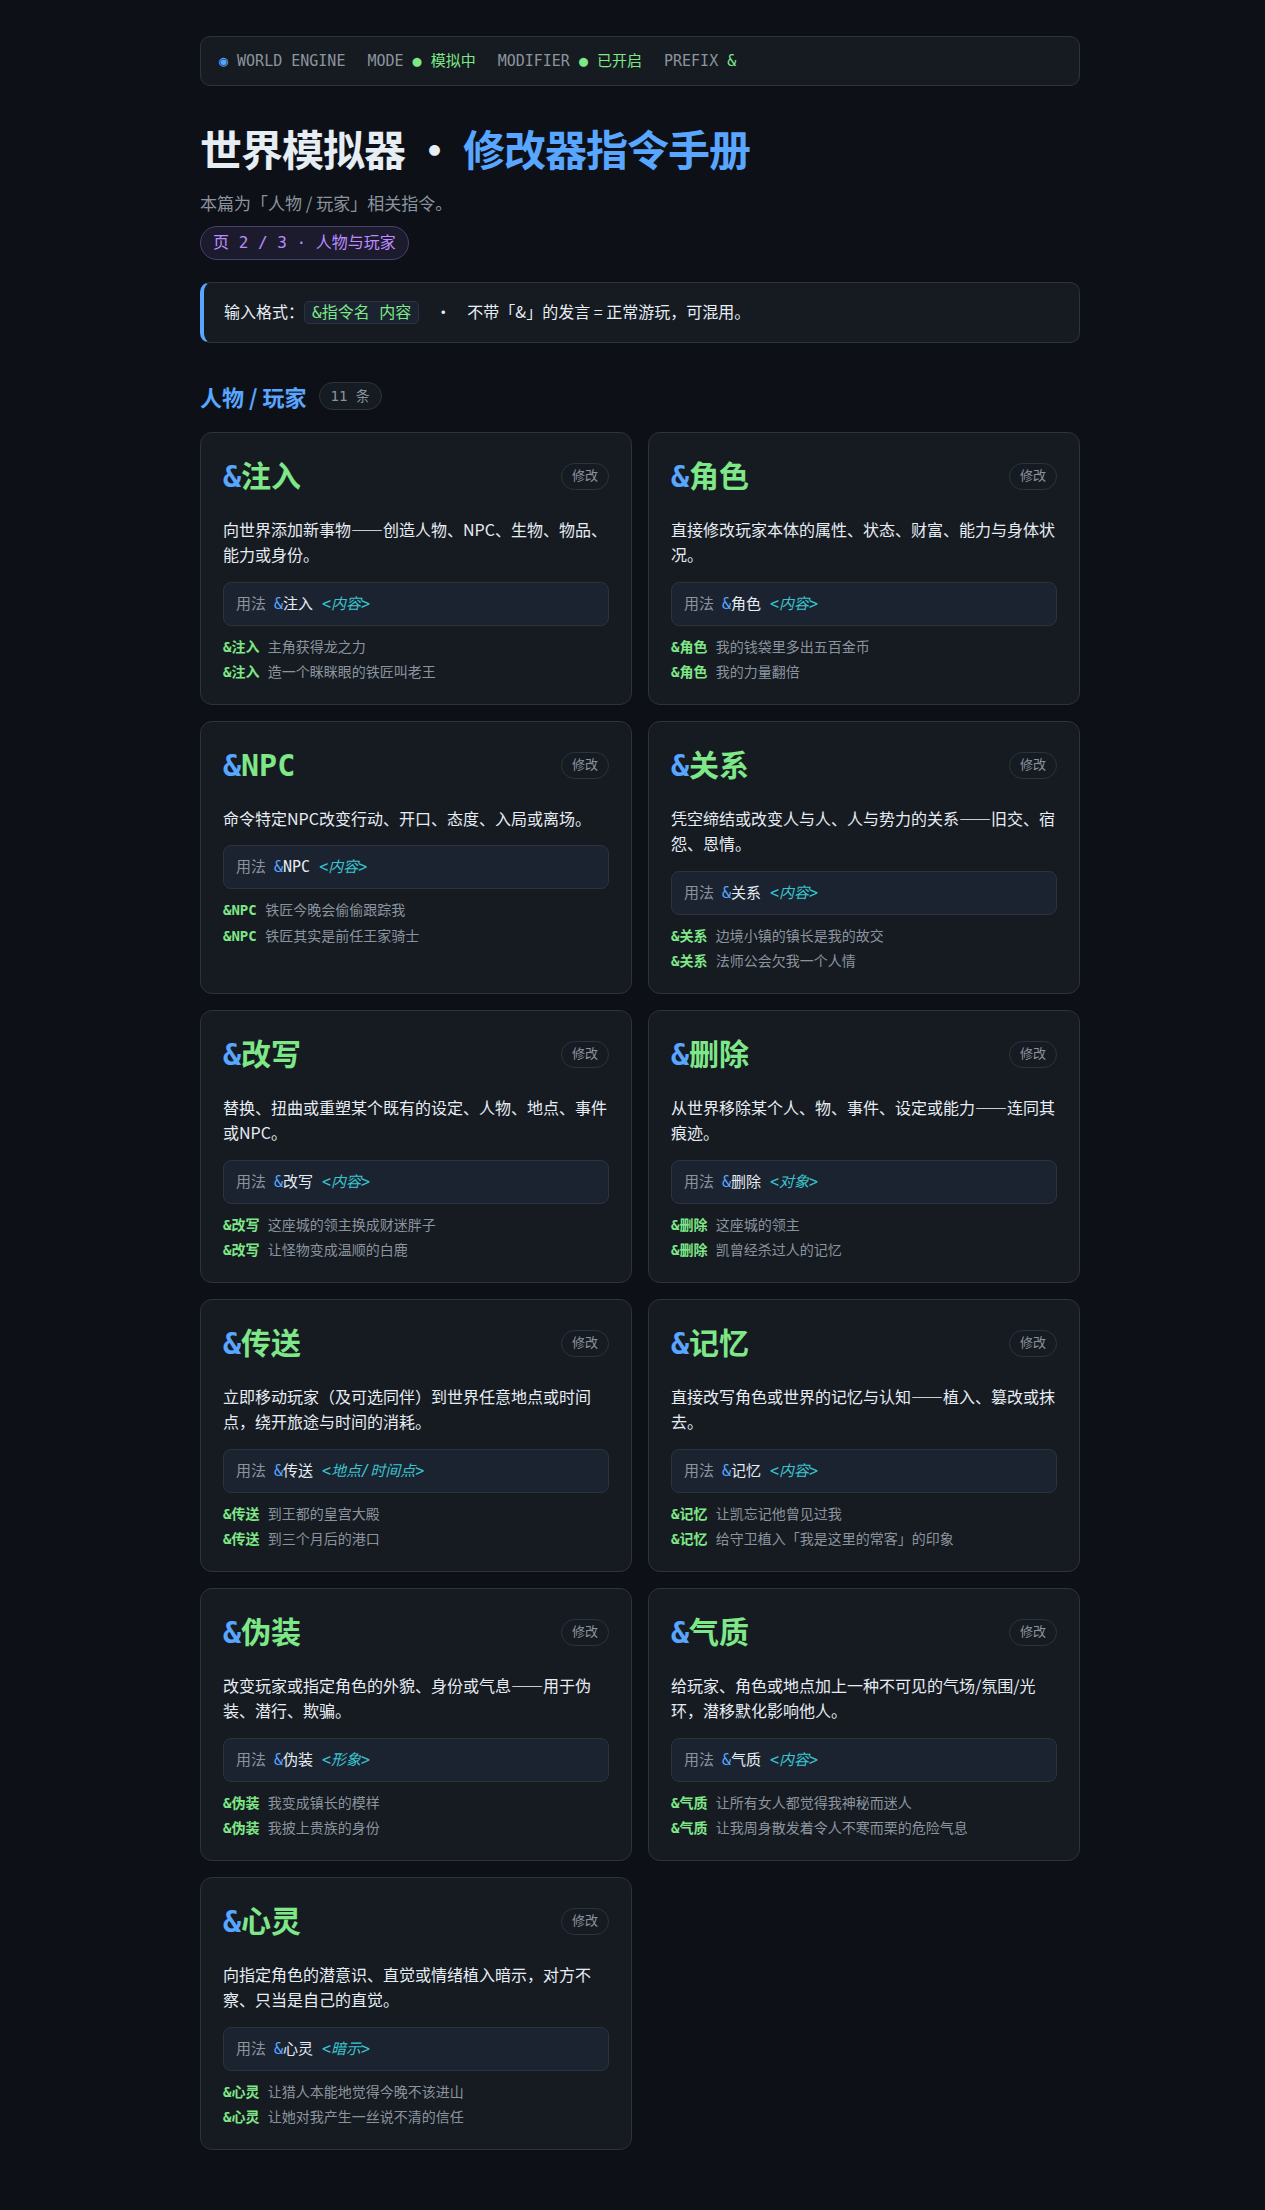
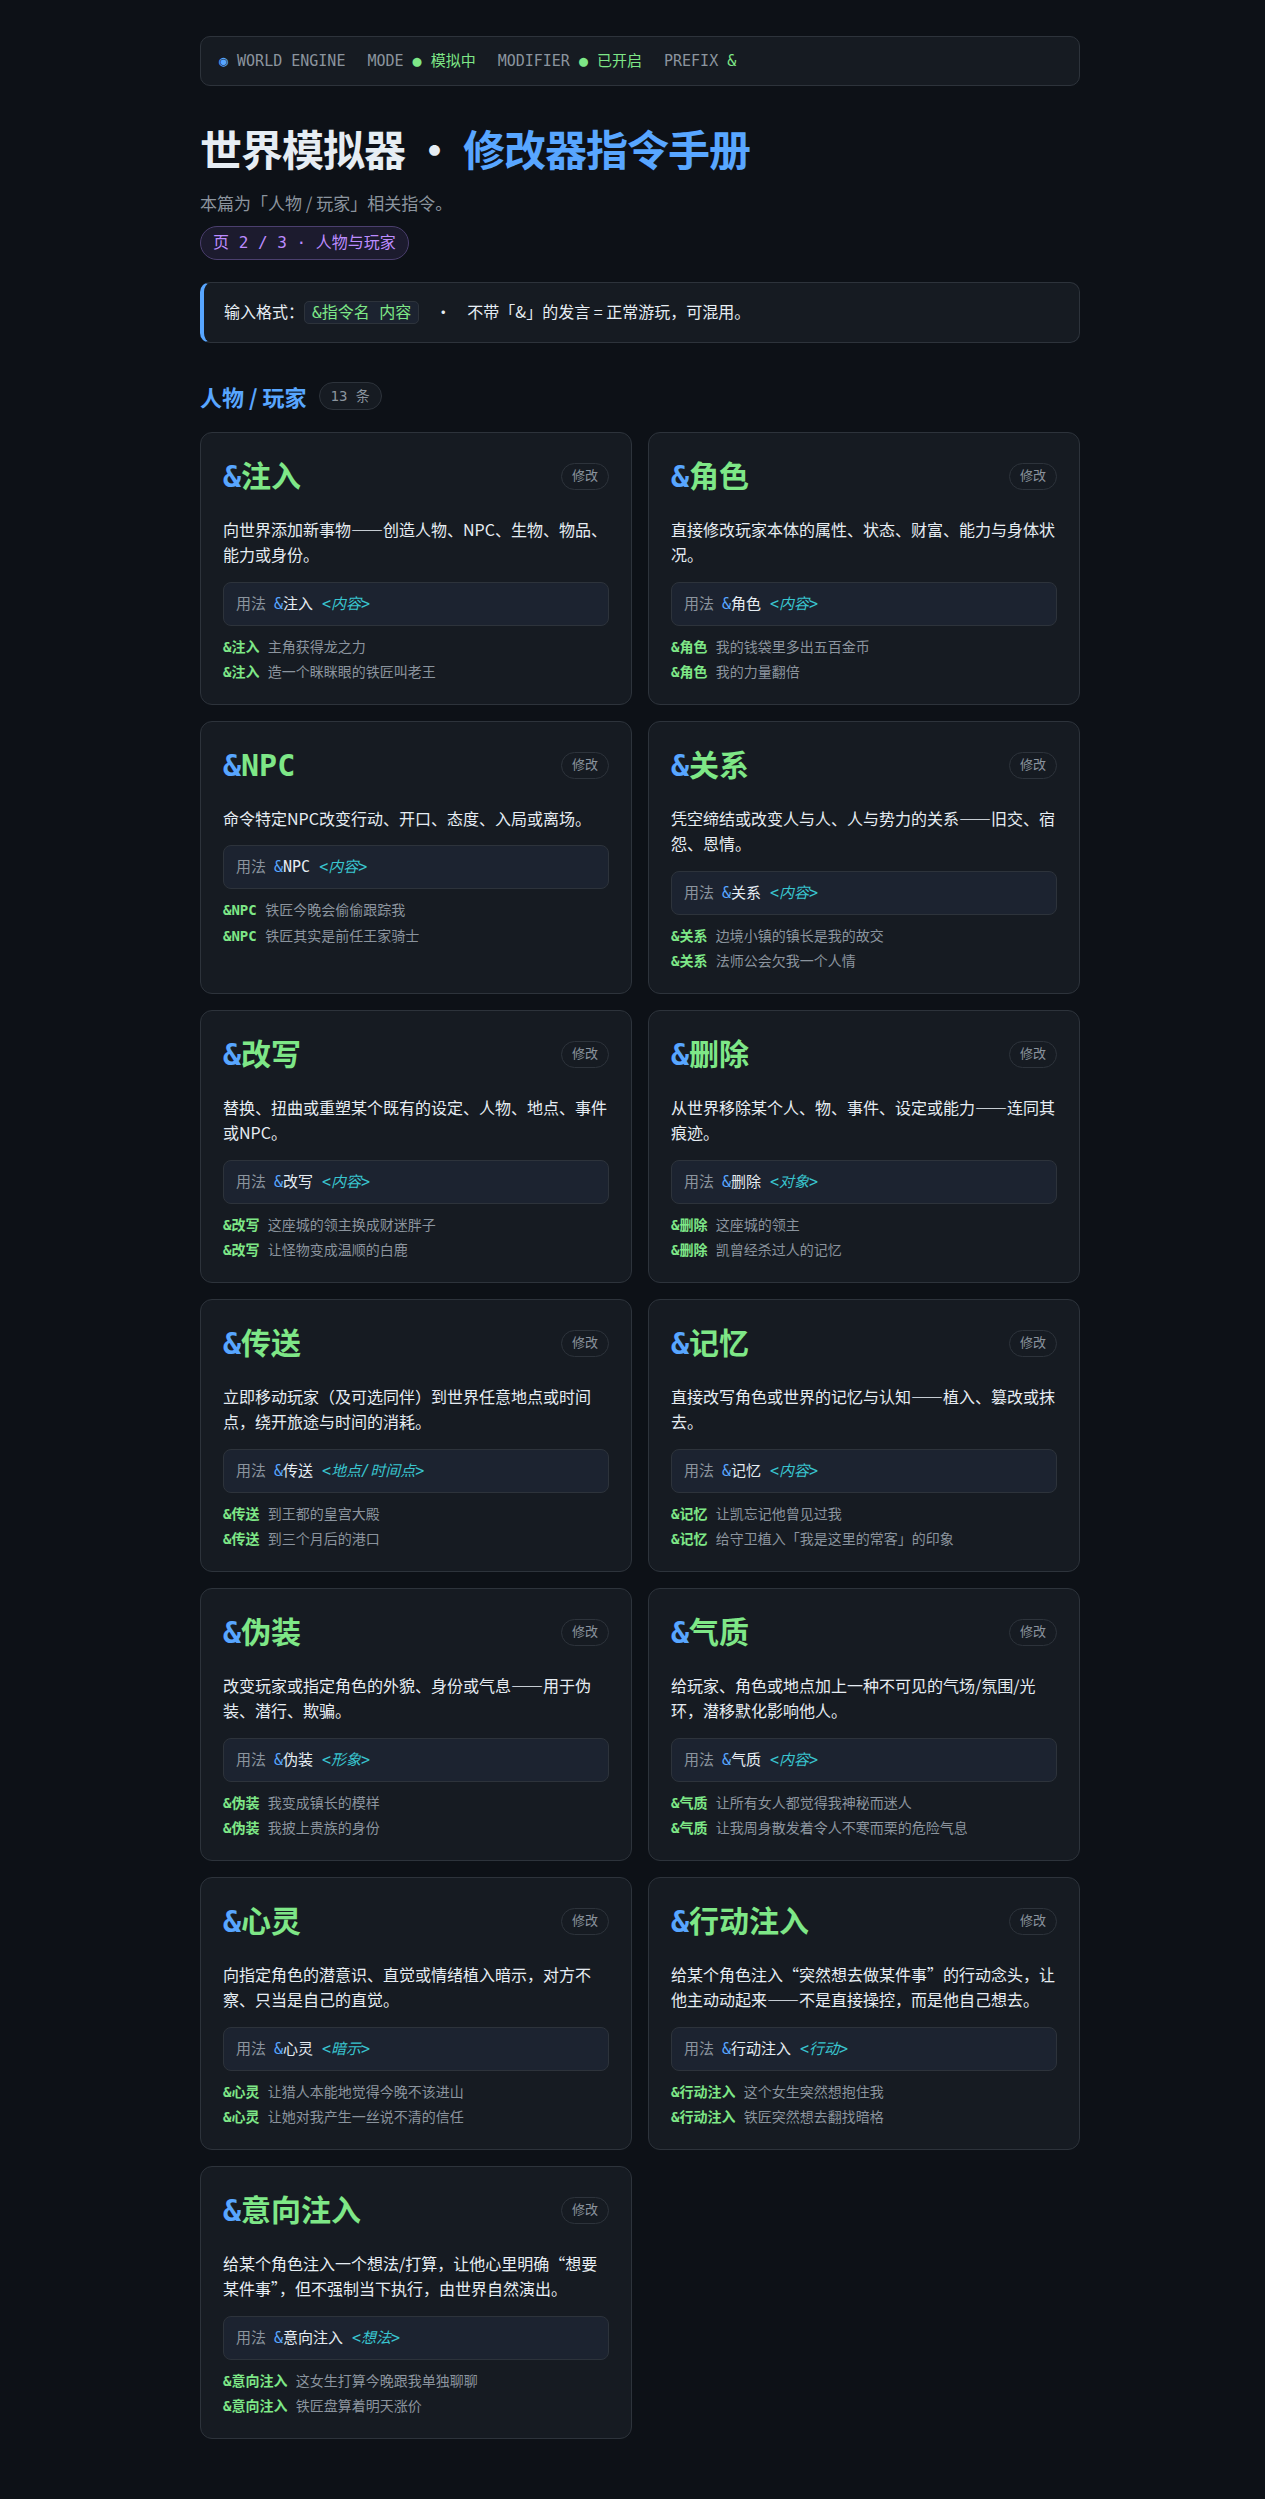
v2.5：新增 &行动注入 + &意向注入 两条指令（共28条），同步 README/creator_notes/Lorebook/三页教程

diff --git a/world-simulator-rolecard/manual/manual-2.html b/world-simulator-rolecard/manual/manual-2.html
@@ -51,7 +51,7 @@
   <div class="howto">输入格式：<code>&amp;指令名 内容</code>　·　不带「&amp;」的发言 = 正常游玩，可混用。</div>
 
   <section class="cat">
-    <h2>人物 / 玩家<span class="n">11 条</span></h2>
+    <h2>人物 / 玩家<span class="n">13 条</span></h2>
     <div class="cards">
       <div class="card">
         <div class="top"><span class="cmd"><span class="a">&amp;</span>注入</span><span class="tag">修改</span></div>
@@ -118,6 +118,18 @@
         <p class="desc">向指定角色的潜意识、直觉或情绪植入暗示，对方不察、只当是自己的直觉。</p>
         <div class="use"><span class="l">用法</span><span class="a">&amp;</span>心灵 <span class="arg">&lt;暗示&gt;</span></div>
         <div class="exs"><div><b>&amp;心灵</b> 让猎人本能地觉得今晚不该进山</div><div><b>&amp;心灵</b> 让她对我产生一丝说不清的信任</div></div>
+      </div>
+      <div class="card">
+        <div class="top"><span class="cmd"><span class="a">&amp;</span>行动注入</span><span class="tag">修改</span></div>
+        <p class="desc">给某个角色注入“突然想去做某件事”的行动念头，让他主动动起来——不是直接操控，而是他自己想去。</p>
+        <div class="use"><span class="l">用法</span><span class="a">&amp;</span>行动注入 <span class="arg">&lt;行动&gt;</span></div>
+        <div class="exs"><div><b>&amp;行动注入</b> 这个女生突然想抱住我</div><div><b>&amp;行动注入</b> 铁匠突然想去翻找暗格</div></div>
+      </div>
+      <div class="card">
+        <div class="top"><span class="cmd"><span class="a">&amp;</span>意向注入</span><span class="tag">修改</span></div>
+        <p class="desc">给某个角色注入一个想法/打算，让他心里明确“想要某件事”，但不强制当下执行，由世界自然演出。</p>
+        <div class="use"><span class="l">用法</span><span class="a">&amp;</span>意向注入 <span class="arg">&lt;想法&gt;</span></div>
+        <div class="exs"><div><b>&amp;意向注入</b> 这女生打算今晚跟我单独聊聊</div><div><b>&amp;意向注入</b> 铁匠盘算着明天涨价</div></div>
       </div>
     </div>
   </section>

diff --git a/world-simulator-rolecard/README.md b/world-simulator-rolecard/README.md
@@ -36,6 +36,8 @@
 - `&关系` 强建/改人物与势力关系
 - `&改写` 直接改写已有设定/人物/事件
 - `&删除` 从世界移除对象
+- `&行动注入` 给角色注入“突然想去做某件事”的行动念头，让他主动动起来（主动抱住你、起身去翻暗格）
+- `&意向注入` 给角色注入一个想法/打算，让他怀揣此意在后续言行中自然体现（打算今晚单独聊、盘算着涨价）
 
 **剧情/叙事**
 - `&剧情` 强制推进/改写剧情主线
@@ -57,7 +59,7 @@
 - 目标模型：`deepseek-v4-pro`（世界自洽最佳）或 `deepseek-v4-flash-0731`（便宜够用）
 
 ## 文件
-- `world-simulator-modifier-command.json` — 可直接导入的角色卡（**指令版**，纯文本，26 条指令）
+- `world-simulator-modifier-command.json` — 可直接导入的角色卡（**指令版**，纯文本，28 条指令）
 - `manual/manual-{1,2,3}.html` — 三页完整指令手册（WEB 版）
 - `manual/p{1,2,3}.png` — 三页指令手册截图
 - `LICENSE` — CC0 1.0 公有领域
@@ -93,10 +95,15 @@
 
 | 文件 | 版本 | 状态 |
 |---|---|---|
-| `world-simulator-modifier-command.json` | **指令版 v1.3**（纯文本，26 条指令） | ✅ **推荐·当前使用** |
+| `world-simulator-modifier-command.json` | **指令版 v2.5**（纯文本，28 条指令） | ✅ **推荐·当前使用** |
 | `world-simulator-render.json` | **渲染版**（交互面板，26 条指令） | 🗂 已归档 → `../archive/` |
 | `world-simulator.json` | 原版（无修改器） | 🗂 已归档 → `../archive/` |
 | `world-simulator-modifier-loose.json` | 宽松版（自然语言改世界） | 🗂 已归档 → `../archive/` |
+
+**v2.5 相较 v1.3 的改动（2026-08-10）**：
+- 新增 `&行动注入`：给世界具体角色注入“突然想去做某件事”的行动念头，让他主动动起来（比重置状态更轻，区别于 `&注入`/`&Npc`）。
+- 新增 `&意向注入`：给角色注入一个想法/打算，让他怀揣此意在后续言行中自然体现（区别于 `&心灵`/`&行动注入`）。
+- 指令总数 26 → **28 条**；`character_version` → v2.5；Lorebook/creator_notes 同步补齐。
 
 **v1.3 相较 v1.2 的改动（2026-08-09 压测后加固）**：
 - 指令示例地名中性化（原“灰烬镇”8 连击→泛称，消除示例污染导致的锚定）。
